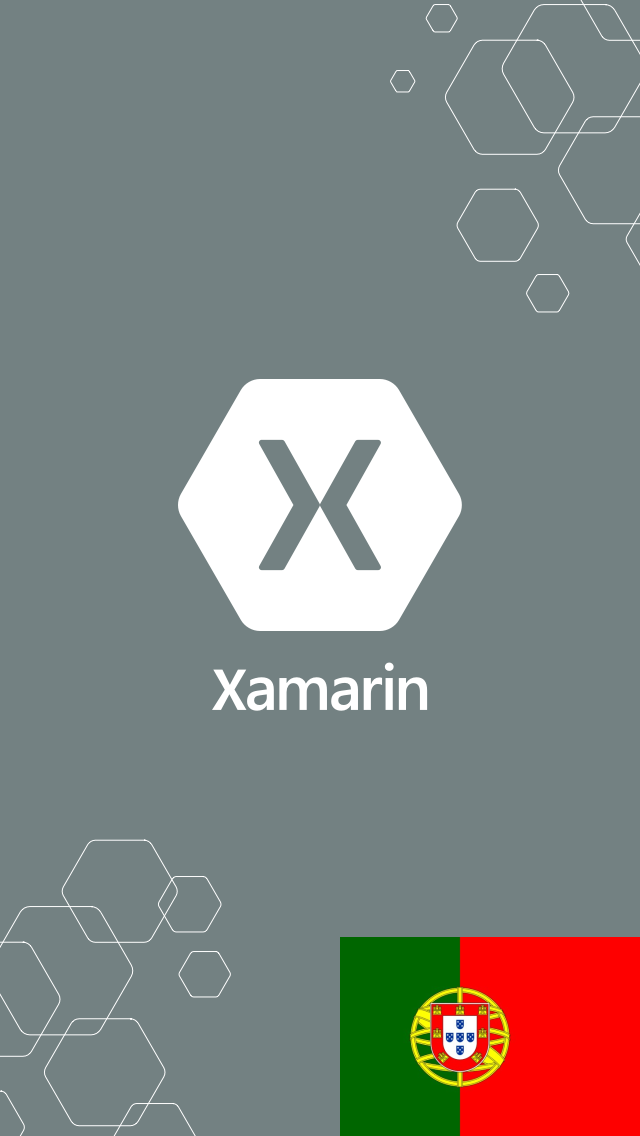
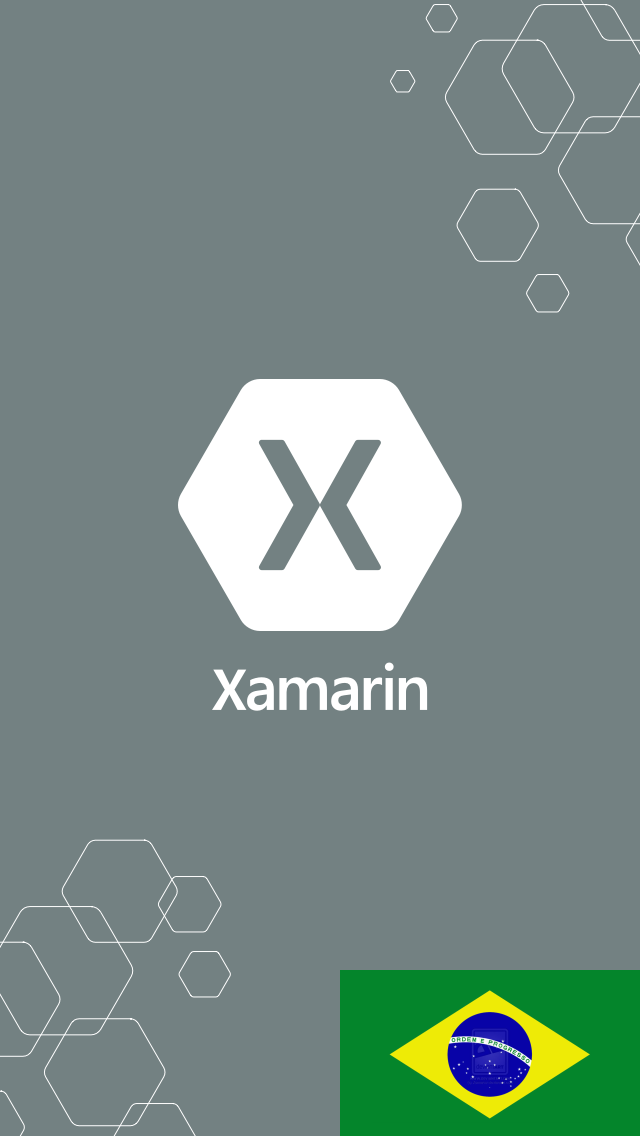
[L10n] clarify handling of Brazilian Portuguese
https://bugzilla.xamarin.com/show_bug.cgi?id=31897

Changed region(s): [[0.5312, 0.8011, 1.0, 1.0]]

diff --git a/UsingResxLocalization/iOS/Localize.cs b/UsingResxLocalization/iOS/Localize.cs
@@ -28,30 +28,39 @@ namespace UsingResxLocalization.iOS
 
 		public System.Globalization.CultureInfo GetCurrentCultureInfo ()
 		{
-			#region not sure why this isn't working for me (in simulator at least)
-			var iosLocaleAuto = NSLocale.AutoUpdatingCurrentLocale.LocaleIdentifier;
-			var iosLanguageAuto = NSLocale.AutoUpdatingCurrentLocale.LanguageCode;
-			Console.WriteLine ("nslocaleid:" + iosLocaleAuto);
-			Console.WriteLine ("nslanguage:" + iosLanguageAuto);
+//			#region not sure why this isn't working for me (in simulator at least)
+//			var iosLocaleAuto = NSLocale.AutoUpdatingCurrentLocale.LocaleIdentifier;
+//			var iosLanguageAuto = NSLocale.AutoUpdatingCurrentLocale.LanguageCode;
+//			Console.WriteLine ("nslocaleid:" + iosLocaleAuto);
+//			Console.WriteLine ("nslanguage:" + iosLanguageAuto);
+//
+//			var iosLocale = NSLocale.CurrentLocale.LocaleIdentifier;
+//			var iosLanguage = NSLocale.CurrentLocale.LanguageCode;
+//
+//			var netLocale = iosLocale.Replace ("_", "-");
+//			var netLanguage = iosLanguage.Replace ("_", "-");
+//
+//			Console.WriteLine ("ios:" + iosLanguage + " " + iosLocale);
+//			Console.WriteLine ("net:" + netLanguage + " " +  netLocale);
+//
+//			// doesn't seem to affect anything (well, i didn't expect it to affect UIKit controls)
+////			var ci = new System.Globalization.CultureInfo ("JA-jp");
+////			System.Threading.Thread.CurrentThread.CurrentCulture = ci;
 
-			var iosLocale = NSLocale.CurrentLocale.LocaleIdentifier;
-			var iosLanguage = NSLocale.CurrentLocale.LanguageCode;
-
-			var netLocale = iosLocale.Replace ("_", "-");
-			var netLanguage = iosLanguage.Replace ("_", "-");
-
-			Console.WriteLine ("ios:" + iosLanguage + " " + iosLocale);
-			Console.WriteLine ("net:" + netLanguage + " " +  netLocale);
-
-			// doesn't seem to affect anything (well, i didn't expect it to affect UIKit controls)
-//			var ci = new System.Globalization.CultureInfo ("JA-jp");
-//			System.Threading.Thread.CurrentThread.CurrentCulture = ci;
-
-			#endregion
-
+//			#endregion
+			var netLanguage = "en";
 			// HACK: not sure why NSLocale isn't ever returning correct data
 			if (NSLocale.PreferredLanguages.Length > 0) {
 				var pref = NSLocale.PreferredLanguages [0];
+
+				// HACK: Apple treats portuguese fallbacks in a strange way
+				// https://developer.apple.com/library/ios/documentation/MacOSX/Conceptual/BPInternational/LocalizingYourApp/LocalizingYourApp.html
+				// "For example, use pt as the language ID for Portuguese as it is used in Brazil and pt-PT as the language ID for Portuguese as it is used in Portugal"
+				if (pref == "pt")
+					pref = "pt-BR"; // get the correct Brazilian language strings from the PCL RESX (note the local iOS folder is still "pt")
+				else
+					pref = "pt-PT"; // Portugal
+			
 				netLanguage = pref.Replace ("_", "-");
 				Console.WriteLine ("preferred:" + netLanguage);
 			}
